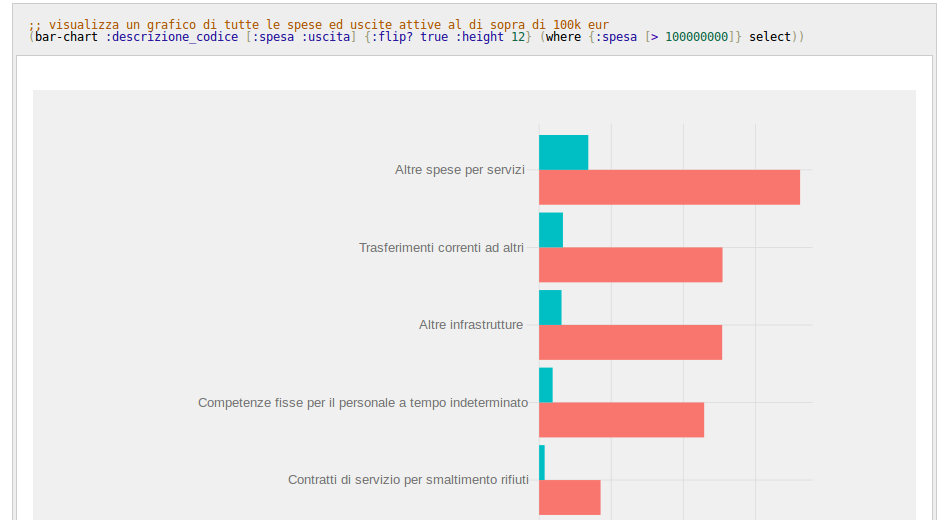
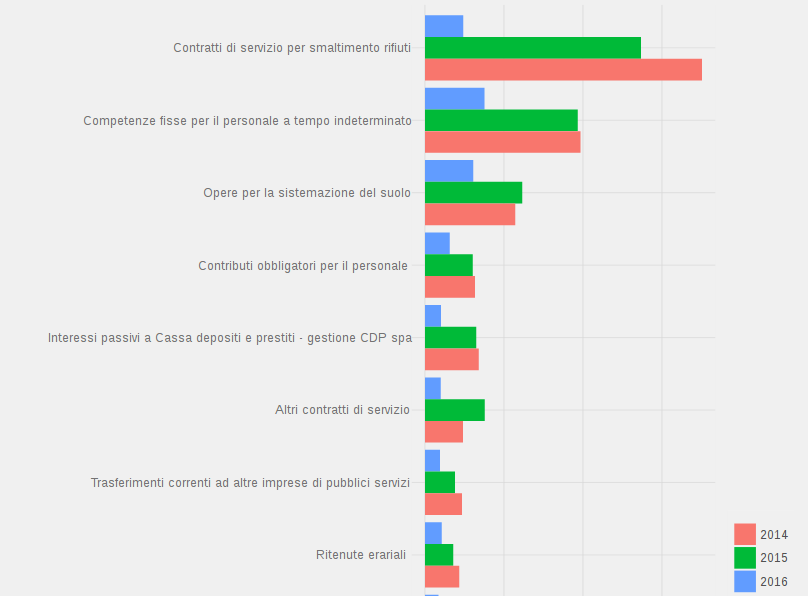
aggiornamenti alla documentazione

Changed region(s): [[0.0309, 0.0, 0.8973, 1.0], [0.8973, 0.8615, 0.9901, 1.0]]

diff --git a/README.md b/README.md
@@ -78,65 +78,36 @@ linguaggio ;^)
 
 ```clojure
 (ns fxc-soldipubblici.core
-  (:require [clj-http.client :as client]
-            [clj-http.cookies :as cookies]
-            [cheshire.core :refer :all]
-            [clojure.string :as string]
-            [clojure.core.async :as async]
-            [clojure.data.json :as json]
-            [gorilla-repl.core :as gorilla])
-  (:use     [clojure.java.shell]
-            [huri core plot etl])
-  (:import  [java.awt.image.BufferedImage]
-            [javax.imageio.ImageIO]
-            [java.io.ByteArrayInputStream]
-            [javax.swing.ImageIcon]))
-(def cs (cookies/cookie-store))
-(def df (binding [clj-http.core/*cookie-store* cs]
+  (:require
+   [clojure.string :as string]
+   [clojure.data.json :as json]
+   [clojure.contrib.humanize :refer :all]
+   [fxc-soldipubblici.core :refer :all :reload :true])
+  (:use [gorilla-repl core table latex html]
+        [huri core plot etl]
+        ))
 
+(table-view (cerca-enti "PESCARA")
+            :columns [:codice 'creazione 'scadenza "???"
+			          :nome "??" "??" 'popolazione :tipo])
 
+(def dati (raccogli-dati "PRO" "000016324" "Pescara"))
 
-
-  ;; -------------------------------------------
-  ;; riempire la richiesta e premere Shift+Invio
-  (let [comparto "PRO"
-        ente     "011135934"
-        chi      "comune+di+matera"
-        cosa     ""
-        ]
-    ;; ----------------------------
-
-
-
-
-
-  (client/get "http://soldipubblici.gov.it/it" {:cookie-store cs})
-  (-> (client/post "http://soldipubblici.gov.it/it/ricerca"
-               {:form-params {"codicecomparto" comparto
-                              "codiceente" ente
-                              "chi" chi
-                              "cosa" cosa }
-               	:cookie-store cs
-                :headers {"X-Requested-With" "XMLHttpRequest"}
-                :accept :json
-                :as :json})
-      :body
-      :data
-  ))))
+(bar-chart :desc
+           [:2016 :2015 :2014] {:flip? true :height 12}
+           (where {:2016 [> 10000000]}
+                  (analizza-dati dati)))
 ```
 
-Il codice iniziale riportato qui sopra quando eseguito contattera' il
-portale soldipubblici.gov.it importando il risultato della
-selezione. Al momento occorre ritrovare il codice ente a manina ma su
-facilitazioni ulteriori ci stiamo lavorando.
+Il codice iniziale riportato qui sopra usa `cerca-enti` per visualizzare una lista di enti che contengono la stringa "PESCARA", poi contatta il
+portale soldipubblici.gov.it importando tutte le voci di spesa.
+Di seguito usando i comandi `bar-chart` e `analizza-dati` e' possibile visualizzare un grafico ordinato delle voci di spesa maggiori.
 
 Per procedere ed eseguire ogni blocco di codice premere
 `shift+invio`. Tornando indietro e' posibile cambiare il codice e
 rieseguirlo.
 
-I quadri successivi offrono esempi di manipolazione dei dati fino ad
-arrivare ad un esempio di visualizzazione grafica su una tabella
-facilmente ricavabile con una sola linea di codice.
+I quadri offrono esempi di manipolazione dei dati. Questo approccio e' estremamente flessibile e permette anche di salvare lo storico delle manipolazioni avvenute sui dati, permettendone quindi una verifica.
 
 ![](doc/fxc-grafico.png)
 
